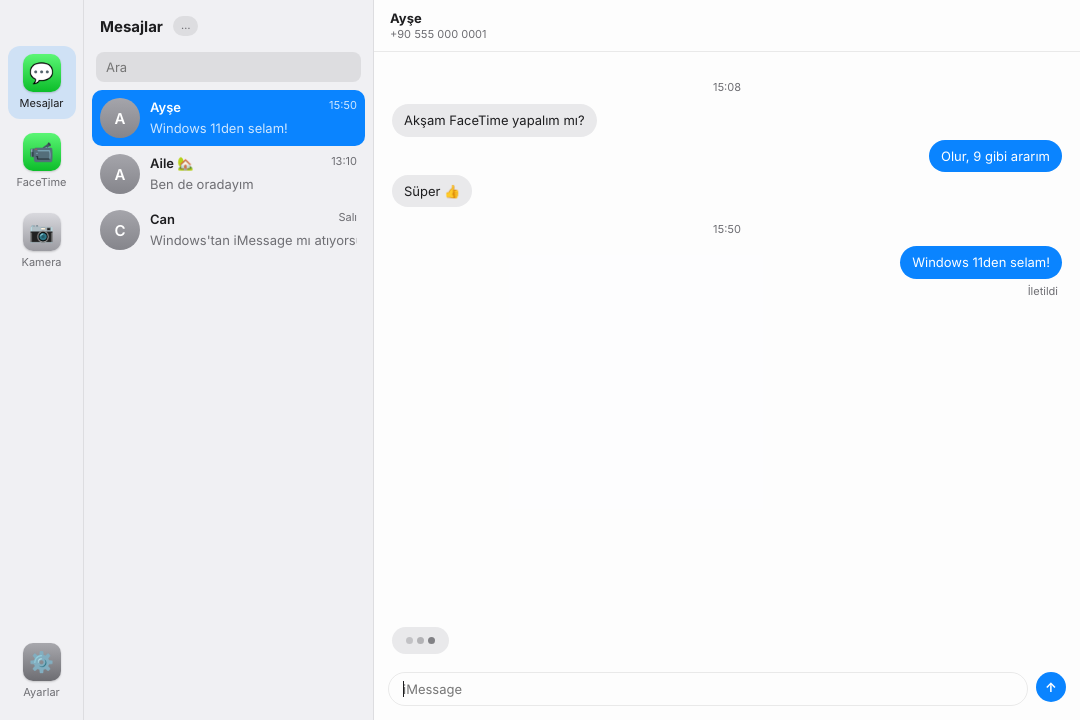
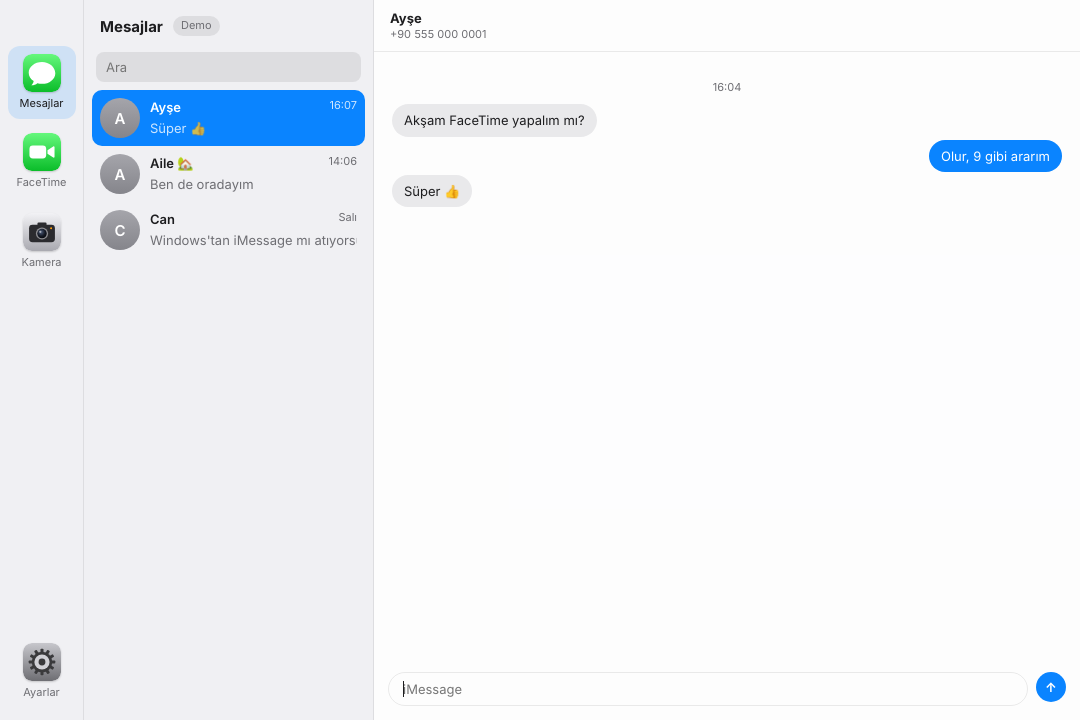
facetime-messages: Apple tarzı uygulama ikonları ve Windows kurulum dosyası
Mesajlar, FaceTime, Kamera, Ayarlar ve uygulama ikonu (SVG, kendi
çizimimiz); pencere/kurulum ikonu. CI, Süreklilik kurulum .exe'sini
artifact olarak üretir.

Claude-Session: https://claude.ai/code/session_01HjCsdg14gvCg3pegStS3fQ

diff --git a/facetime-messages/src/renderer/index.html b/facetime-messages/src/renderer/index.html
@@ -10,11 +10,11 @@
 <div class="app">
   <nav class="rail">
     <div class="drag"></div>
-    <button data-view="messages" title="Mesajlar"><span class="appicon messages">💬</span><span>Mesajlar</span></button>
-    <button data-view="facetime" title="FaceTime"><span class="appicon facetime">📹</span><span>FaceTime</span></button>
-    <button data-view="camera" title="iPhone Kamerası"><span class="appicon camera">📷</span><span>Kamera</span></button>
+    <button data-view="messages" title="Mesajlar"><img class="appicon" src="icons/messages.svg" alt=""><span>Mesajlar</span></button>
+    <button data-view="facetime" title="FaceTime"><img class="appicon" src="icons/facetime.svg" alt=""><span>FaceTime</span></button>
+    <button data-view="camera" title="iPhone Kamerası"><img class="appicon" src="icons/camera.svg" alt=""><span>Kamera</span></button>
     <div class="spacer"></div>
-    <button data-view="settings" title="Ayarlar"><span class="appicon settings">⚙</span><span>Ayarlar</span></button>
+    <button data-view="settings" title="Ayarlar"><img class="appicon" src="icons/settings.svg" alt=""><span>Ayarlar</span></button>
   </nav>
 
   <!-- Mesajlar -->

diff --git a/facetime-messages/src/renderer/styles.css b/facetime-messages/src/renderer/styles.css
@@ -40,11 +40,7 @@ button, input { font: inherit; color: inherit; }
 .rail button { all: unset; display: flex; flex-direction: column; align-items: center; gap: 4px; width: 68px; padding: 8px 0;
                border-radius: 12px; cursor: default; font-size: 11px; color: var(--muted); }
 .rail button.active { background: var(--sel); color: var(--text); }
-.appicon { width: 38px; height: 38px; display: grid; place-items: center; border-radius: 10px; font-size: 20px;
-           box-shadow: 0 1px 2px rgba(0,0,0,.18); }
-.appicon.messages, .appicon.facetime { background: linear-gradient(#5bf675, #0cbd2a); }
-.appicon.camera { background: linear-gradient(#d9d9de, #9b9ba1); }
-.appicon.settings { background: linear-gradient(#a8a8ad, #6d6d72); }
+.appicon { width: 38px; height: 38px; border-radius: 9px; box-shadow: 0 1px 2px rgba(0,0,0,.18); }
 
 .view { display: none; flex: 1; min-width: 0; }
 .view.active { display: flex; }

diff --git a/facetime-messages/src/main.js b/facetime-messages/src/main.js
@@ -74,6 +74,7 @@ async function startBackend() {
 function openFaceTime(url) {
   const win = new BrowserWindow({
     width: 1100, height: 760, backgroundColor: '#000', title: 'FaceTime',
+    icon: path.join(__dirname, 'renderer', 'icons', 'facetime.png'),
     autoHideMenuBar: true,
     webPreferences: {
       partition: 'persist:facetime',
@@ -103,6 +104,7 @@ function createMainWindow() {
   mainWindow = new BrowserWindow({
     width: 1080, height: 720, minWidth: 760, minHeight: 520,
     title: 'Süreklilik',
+    icon: path.join(__dirname, 'renderer', 'icons', 'app.png'),
     backgroundMaterial: 'mica',
     titleBarStyle: 'hidden',
     titleBarOverlay: { color: '#00000000', symbolColor: '#888', height: 40 },
